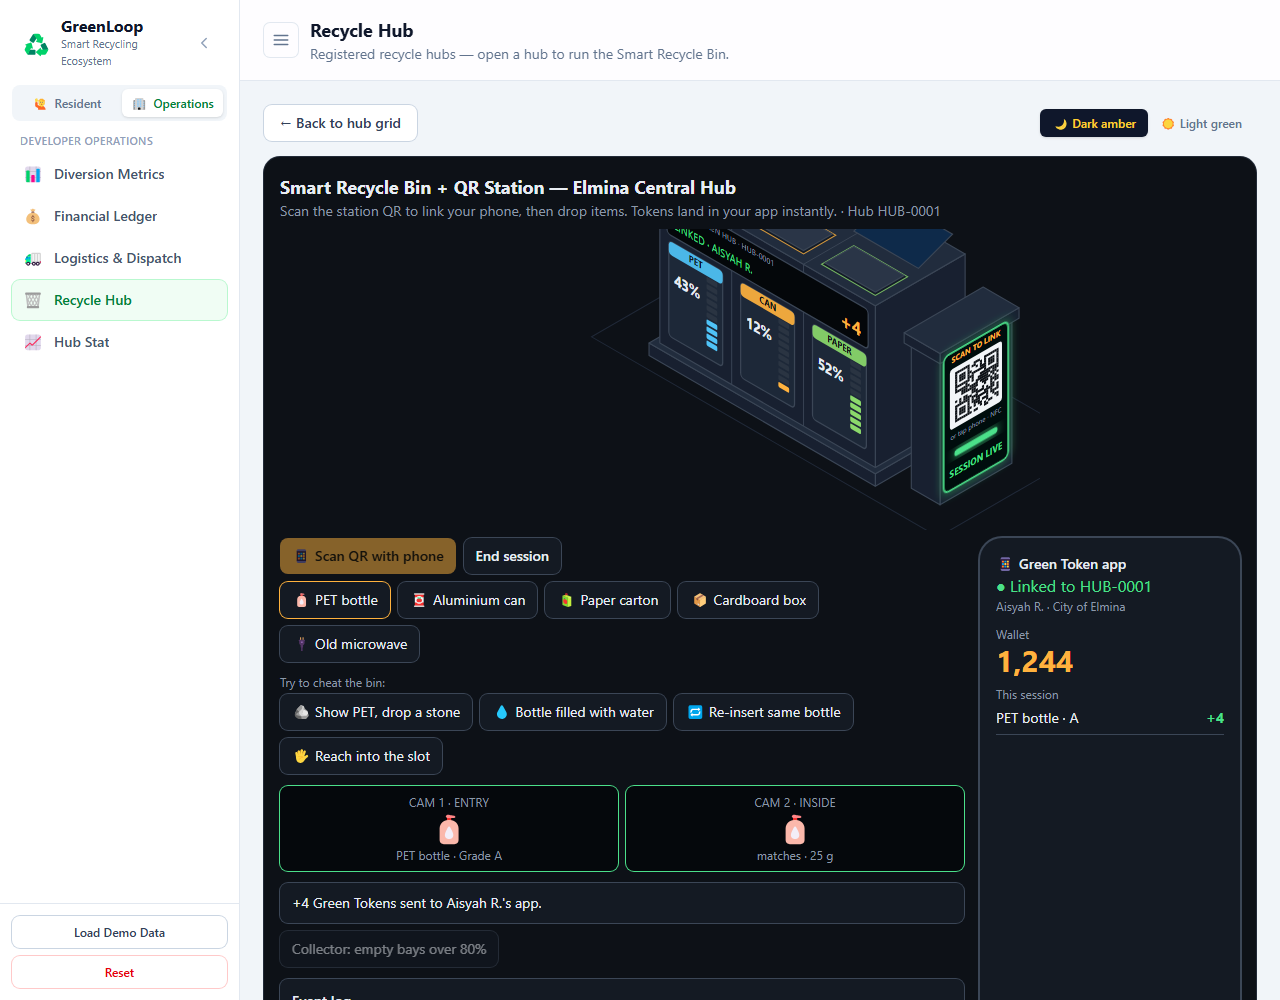
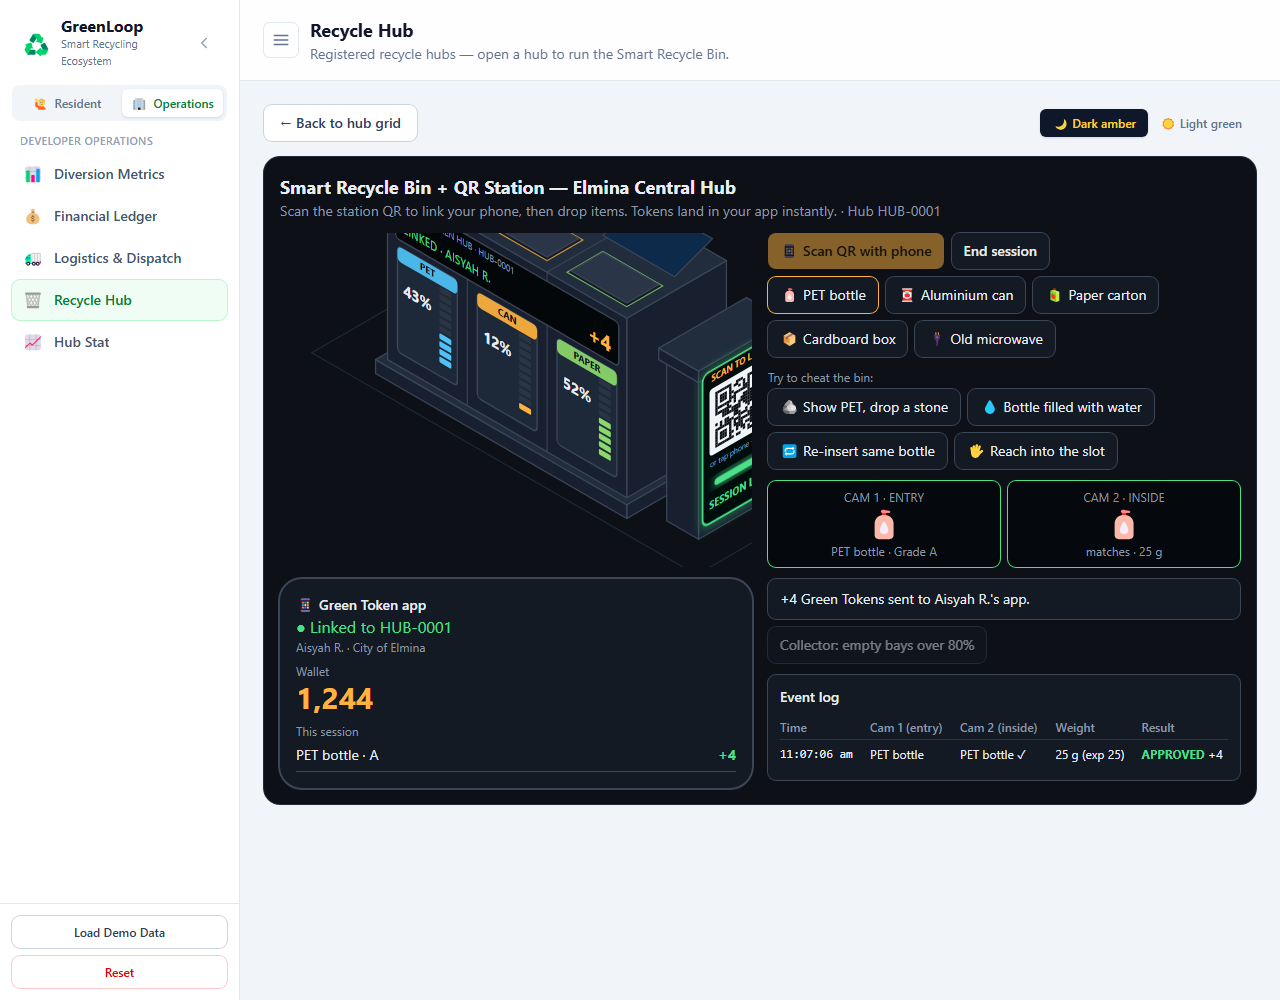
Fix Smart Bin layout: bin-left/controls-right, uncropped bin, neater spacing

Changed region(s): [[0.1875, 0.217, 1.0, 1.0], [0.4062, 0.682, 0.5, 0.744]]

diff --git a/src/components/SmartBin.jsx b/src/components/SmartBin.jsx
@@ -289,14 +289,49 @@ export default function SmartBin({ hub, onBack }) {
           Scan the station QR to link your phone, then drop items. Tokens land in your app instantly. · Hub {code}
         </p>
 
-        {/* Isometric bin — capped so it doesn't dominate the console */}
-        <div className="mx-auto my-2 max-w-[560px]">
-          <BinSvg fills={fills} open={open} scan={scan} c2={c2} linked={linked} connecting={connecting}
-            flag={flag} alert={alert} pulse={pulse} tk={sessTk} resident={RESIDENT} code={code} dark={dark} />
-        </div>
+        {/* Bin on the LEFT, controls on the RIGHT — neat side-by-side layout */}
+        <div className="mt-3 grid gap-4 lg:grid-cols-2">
+          {/* LEFT: isometric bin + phone app */}
+          <div className="space-y-3 self-start">
+            <BinSvg fills={fills} open={open} scan={scan} c2={c2} linked={linked} connecting={connecting}
+              flag={flag} alert={alert} pulse={pulse} tk={sessTk} resident={RESIDENT} code={code} dark={dark} />
+            <div className={`rounded-[22px] p-4 ring-2 ${dark ? 'bg-[#141a23] ring-[#3b4656]' : 'bg-white ring-slate-300'}`}>
+              <p className="text-sm font-semibold">📱 Green Token app</p>
+              {!linked ? (
+                <>
+                  <p className={`my-4 text-sm ${T.mute}`}>
+                    {connecting ? `Connecting to station ${code}…` : 'Point your camera at the QR code on the station to start a session.'}
+                  </p>
+                  <p className={`text-xs ${T.mute}`}>Wallet</p>
+                  <p className="text-3xl font-bold" style={{ color: T.amb }}>{wallet.toLocaleString()}</p>
+                </>
+              ) : (
+                <>
+                  <p className={dark ? 'text-[#4be08a]' : 'text-green-600'}>● Linked to {code}</p>
+                  <p className={`text-xs ${T.mute}`}>{RESIDENT} · City of Elmina</p>
+                  <div className="mt-2 flex items-end justify-between">
+                    <div>
+                      <p className={`text-xs ${T.mute}`}>Wallet</p>
+                      <p className="text-3xl font-bold" style={{ color: T.amb }}>{wallet.toLocaleString()}</p>
+                    </div>
+                  </div>
+                  <p className={`mt-2 text-xs ${T.mute}`}>This session</p>
+                  {feed.length === 0 ? (
+                    <p className={`text-sm ${T.mute}`}>No drops yet</p>
+                  ) : (
+                    feed.map((e, i) => (
+                      <div key={i} className={`flex items-center justify-between border-b py-1.5 text-sm ${dark ? 'border-[#3b4656]' : 'border-slate-100'}`}>
+                        <span>{e.n}</span>
+                        <b className={dark ? 'text-[#4be08a]' : 'text-green-600'}>+{e.t}</b>
+                      </div>
+                    ))
+                  )}
+                </>
+              )}
+            </div>
+          </div>
 
-        <div className="grid gap-4 lg:grid-cols-[1fr_260px]">
-          {/* controls */}
+          {/* RIGHT: controls */}
           <div>
             <div className="flex flex-wrap gap-2">
               <button onClick={scanQR} disabled={linked || connecting}
@@ -381,38 +416,6 @@ export default function SmartBin({ hub, onBack }) {
                 </table>
               </div>
             </div>
-          </div>
-
-          {/* phone */}
-          <div className={`rounded-[22px] p-4 ring-2 ${dark ? 'bg-[#141a23] ring-[#3b4656]' : 'bg-white ring-slate-300'}`}>
-            <p className="text-sm font-semibold">📱 Green Token app</p>
-            {!linked ? (
-              <>
-                <p className={`my-6 text-sm ${T.mute}`}>
-                  {connecting ? `Connecting to station ${code}…` : 'Point your camera at the QR code on the station to start a session.'}
-                </p>
-                <p className={`text-xs ${T.mute}`}>Wallet</p>
-                <p className="text-3xl font-bold" style={{ color: T.amb }}>{wallet.toLocaleString()}</p>
-              </>
-            ) : (
-              <>
-                <p className={dark ? 'text-[#4be08a]' : 'text-green-600'}>● Linked to {code}</p>
-                <p className={`text-xs ${T.mute}`}>{RESIDENT} · City of Elmina</p>
-                <p className={`mt-3 text-xs ${T.mute}`}>Wallet</p>
-                <p className="text-3xl font-bold" style={{ color: T.amb }}>{wallet.toLocaleString()}</p>
-                <p className={`mt-2 text-xs ${T.mute}`}>This session</p>
-                {feed.length === 0 ? (
-                  <p className={`text-sm ${T.mute}`}>No drops yet</p>
-                ) : (
-                  feed.map((e, i) => (
-                    <div key={i} className={`flex items-center justify-between border-b py-1.5 text-sm ${dark ? 'border-[#3b4656]' : 'border-slate-100'}`}>
-                      <span>{e.n}</span>
-                      <b className={dark ? 'text-[#4be08a]' : 'text-green-600'}>+{e.t}</b>
-                    </div>
-                  ))
-                )}
-              </>
-            )}
           </div>
         </div>
       </div>

diff --git a/src/components/BinSvg.jsx b/src/components/BinSvg.jsx
@@ -67,7 +67,7 @@ export default function BinSvg({ fills, open, scan, c2, linked, connecting, flag
     : 'SCAN QR TO START'
 
   return (
-    <svg viewBox="95 210 470 232" style={{ width: '100%', height: 'auto', display: 'block' }} role="img" aria-label="Smart recycling bin with QR link station">
+    <svg viewBox="150 150 410 290" preserveAspectRatio="xMidYMid meet" style={{ width: '100%', height: 'auto', display: 'block' }} role="img" aria-label="Smart recycling bin with QR link station">
       <defs>
         <filter id="g" x="-50%" y="-50%" width="200%" height="200%">
           <feGaussianBlur stdDeviation="2.6" result="b" />
